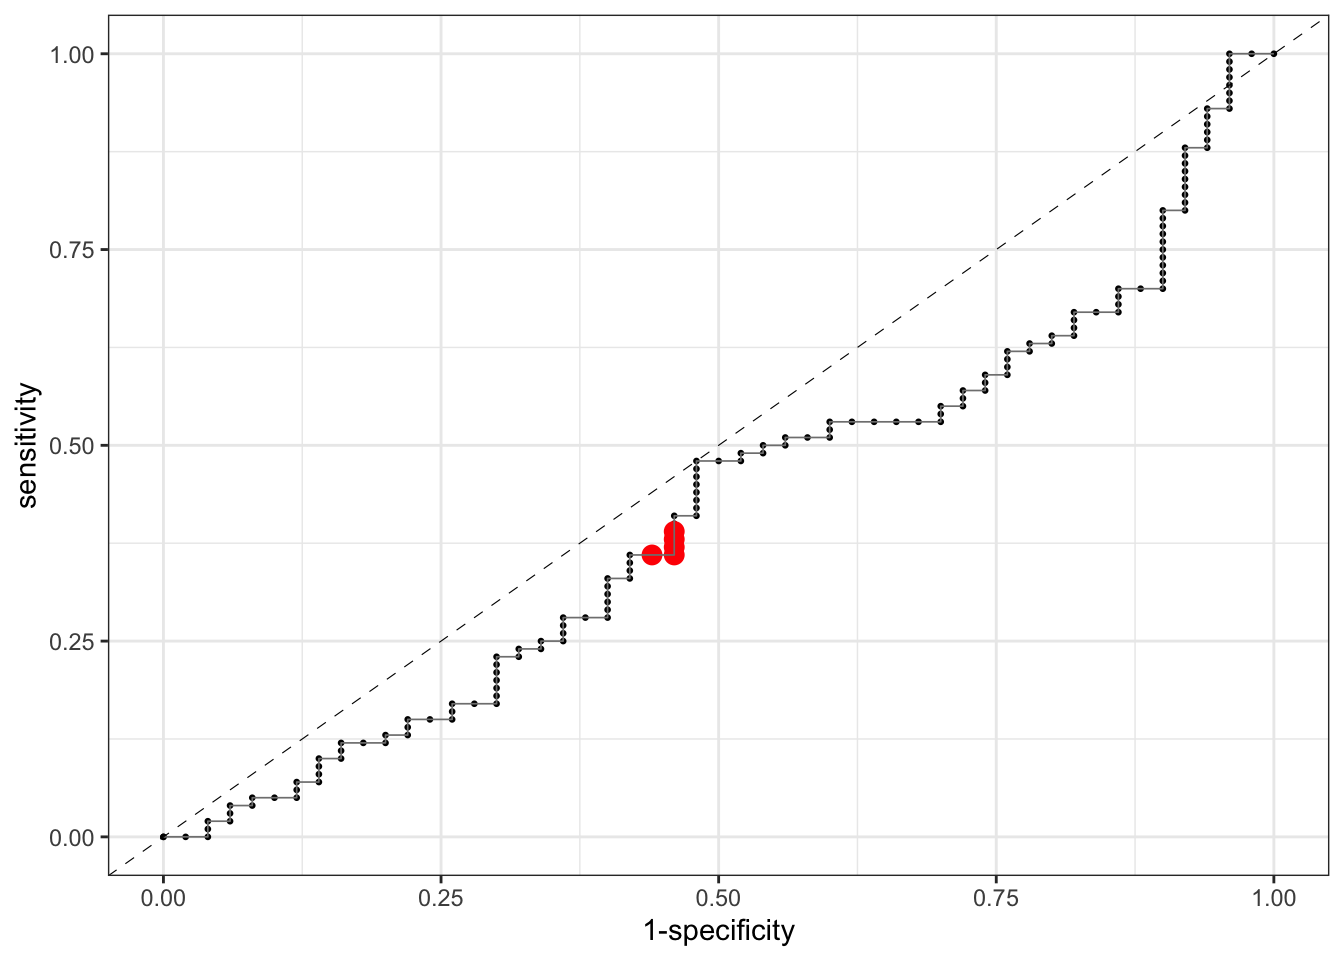
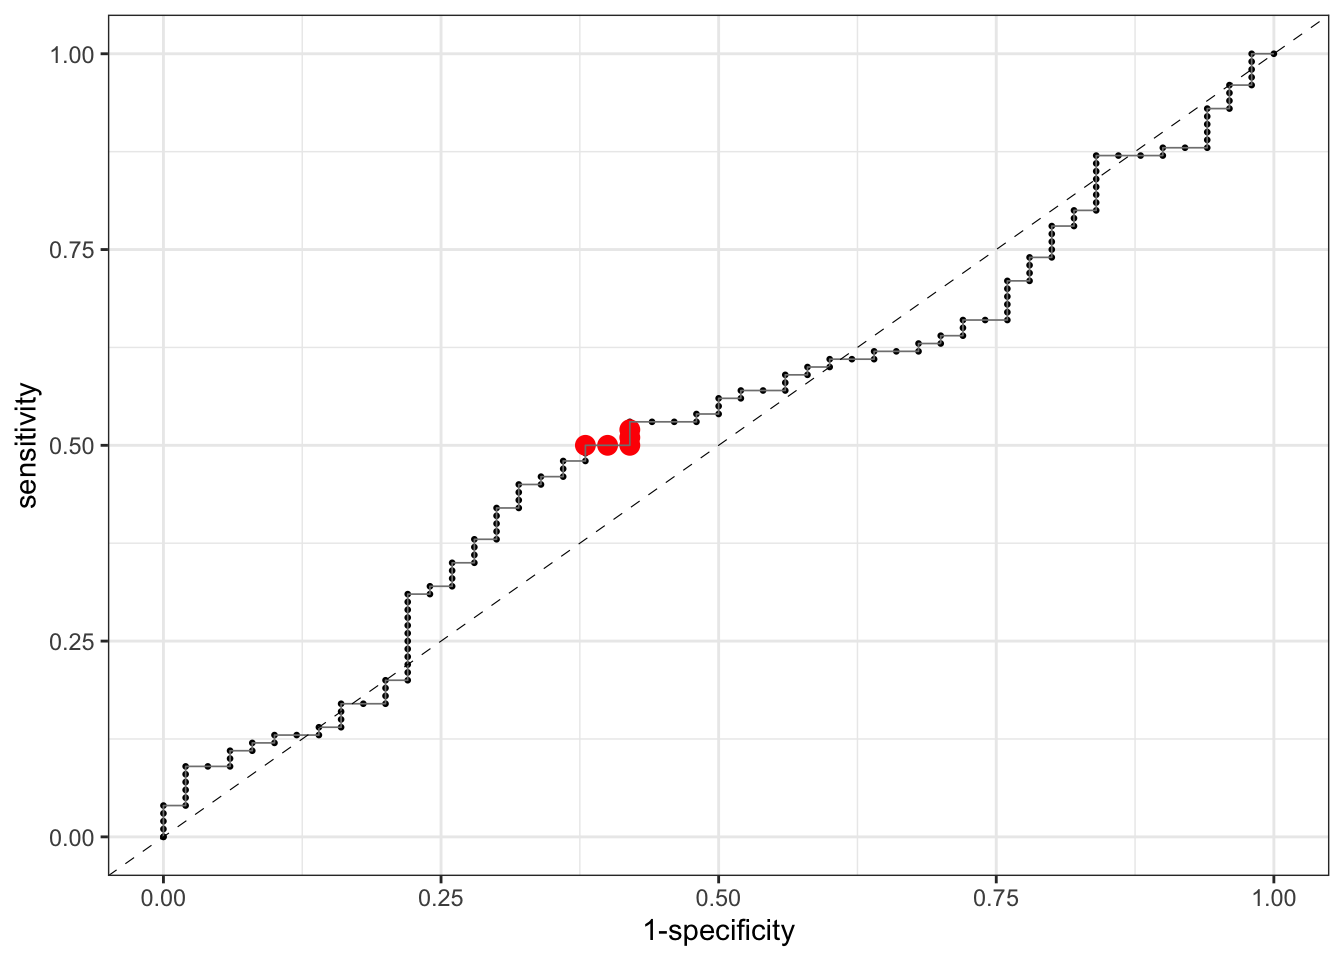
correctio ROC curve post

diff --git a/content/blog/2021-04-30-introducing-the-receiving-operating-characteristic-curve/index.html b/content/blog/2021-04-30-introducing-the-receiving-operating-characteristic-curve/index.html
@@ -15,9 +15,7 @@ description: Description for the page
 <script src="{{< blogdown/postref >}}index_files/header-attrs/header-attrs.js"></script>
 
 
-<div id="a-binary-classification-model" class="section level2">
-<h2>A binary classification model</h2>
-<p>In <a href="https://jmsallan.netlify.app/blog/a-workflow-for-binary-classification-with-tidymodels/">a previous post</a> I presented a small binary classification problem, consisting in finding if an observation of the <code>iris</code> dataset belongs to the versicolor species. In a binary classification problem, the target variable must be a factor, with first level associated to the positive case:</p>
+<p>In <a href="https://jmsallan.netlify.app/blog/a-workflow-for-binary-classification-with-tidymodels/">a previous post</a> I presented a small <strong>binary classification problem</strong>, consisting in finding if an observation of the <code>iris</code> dataset belongs to the versicolor species. Remember that the target variable must be a factor, with first level associated to the positive case:</p>
 <pre class="r"><code>iris &lt;- iris %&gt;% mutate(is_versicolor = ifelse(Species == &quot;versicolor&quot;, &quot;versicolor&quot;, &quot;not_versicolor&quot;)) %&gt;%
   mutate(is_versicolor =factor(is_versicolor, levels = c(&quot;versicolor&quot;, &quot;not_versicolor&quot;)))</code></pre>
 <p>The recipe of this problem is straightforward: remove <em>correlated predictors</em>, and <em>normalize</em> (centering and scaling) the remaining predictors:</p>
@@ -27,7 +25,6 @@ description: Description for the page
   step_corr(all_predictors()) %&gt;%
   step_normalize(all_predictors(), -all_outcomes())</code></pre>
 <p>Here I will introduce the <strong>receiving operating characteristic (ROC)</strong> curve in the context of performance assessment of classification problems. We’ll assess the performance of two predictive models with the ROC curve, and then examine the performance of a bad classifier with the same metric.</p>
-</div>
 <div id="logistic-regression" class="section level2">
 <h2>Logistic regression</h2>
 <p>Let’s begin fitting a <em>logistic regression</em> model:</p>
@@ -191,7 +188,7 @@ roc_curve_rf %&gt;%
 <pre><code>## # A tibble: 1 x 3
 ##   .metric .estimator .estimate
 ##   &lt;chr&gt;   &lt;chr&gt;          &lt;dbl&gt;
-## 1 roc_auc binary         0.998</code></pre>
+## 1 roc_auc binary         0.997</code></pre>
 </div>
 <div id="an-awful-roc-curve" class="section level2">
 <h2>An awful ROC curve</h2>
@@ -222,7 +219,7 @@ roc_iris_awful %&gt;%
 <pre><code>## # A tibble: 1 x 3
 ##   .metric .estimator .estimate
 ##   &lt;chr&gt;   &lt;chr&gt;          &lt;dbl&gt;
-## 1 roc_auc binary         0.413</code></pre>
+## 1 roc_auc binary         0.518</code></pre>
 </div>
 <div id="assessing-model-performance-with-roc-and-auc" class="section level2">
 <h2>Assessing model performance with ROC and AUC</h2>
